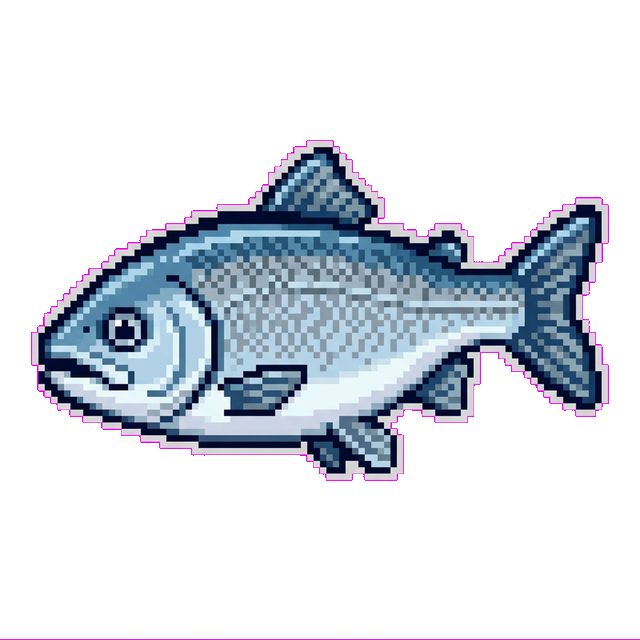
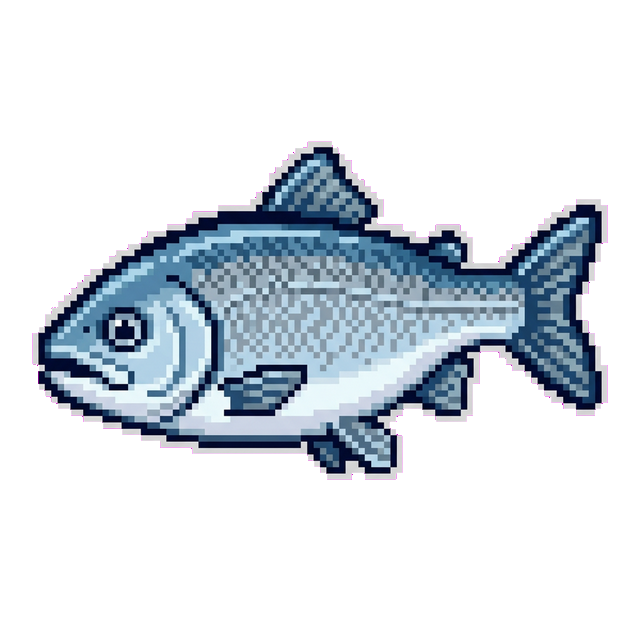
edit

diff --git a/icefishing/remove_backgrounds.py b/icefishing/remove_backgrounds.py
@@ -14,7 +14,7 @@ def process_images(directory):
                 for item in data:
                     r, g, b, a = item
                     # Check for the near-magenta background: r >= 240, g <= 5, b >= 240
-                    if r >= 150 and g <= 10 and b >= 150:
+                    if r >= 200 and g <= 150 and b >= 200:
                         # Set alpha to 0 (fully transparent)
                         new_data.append((r, g, b, 0))
                     else:
